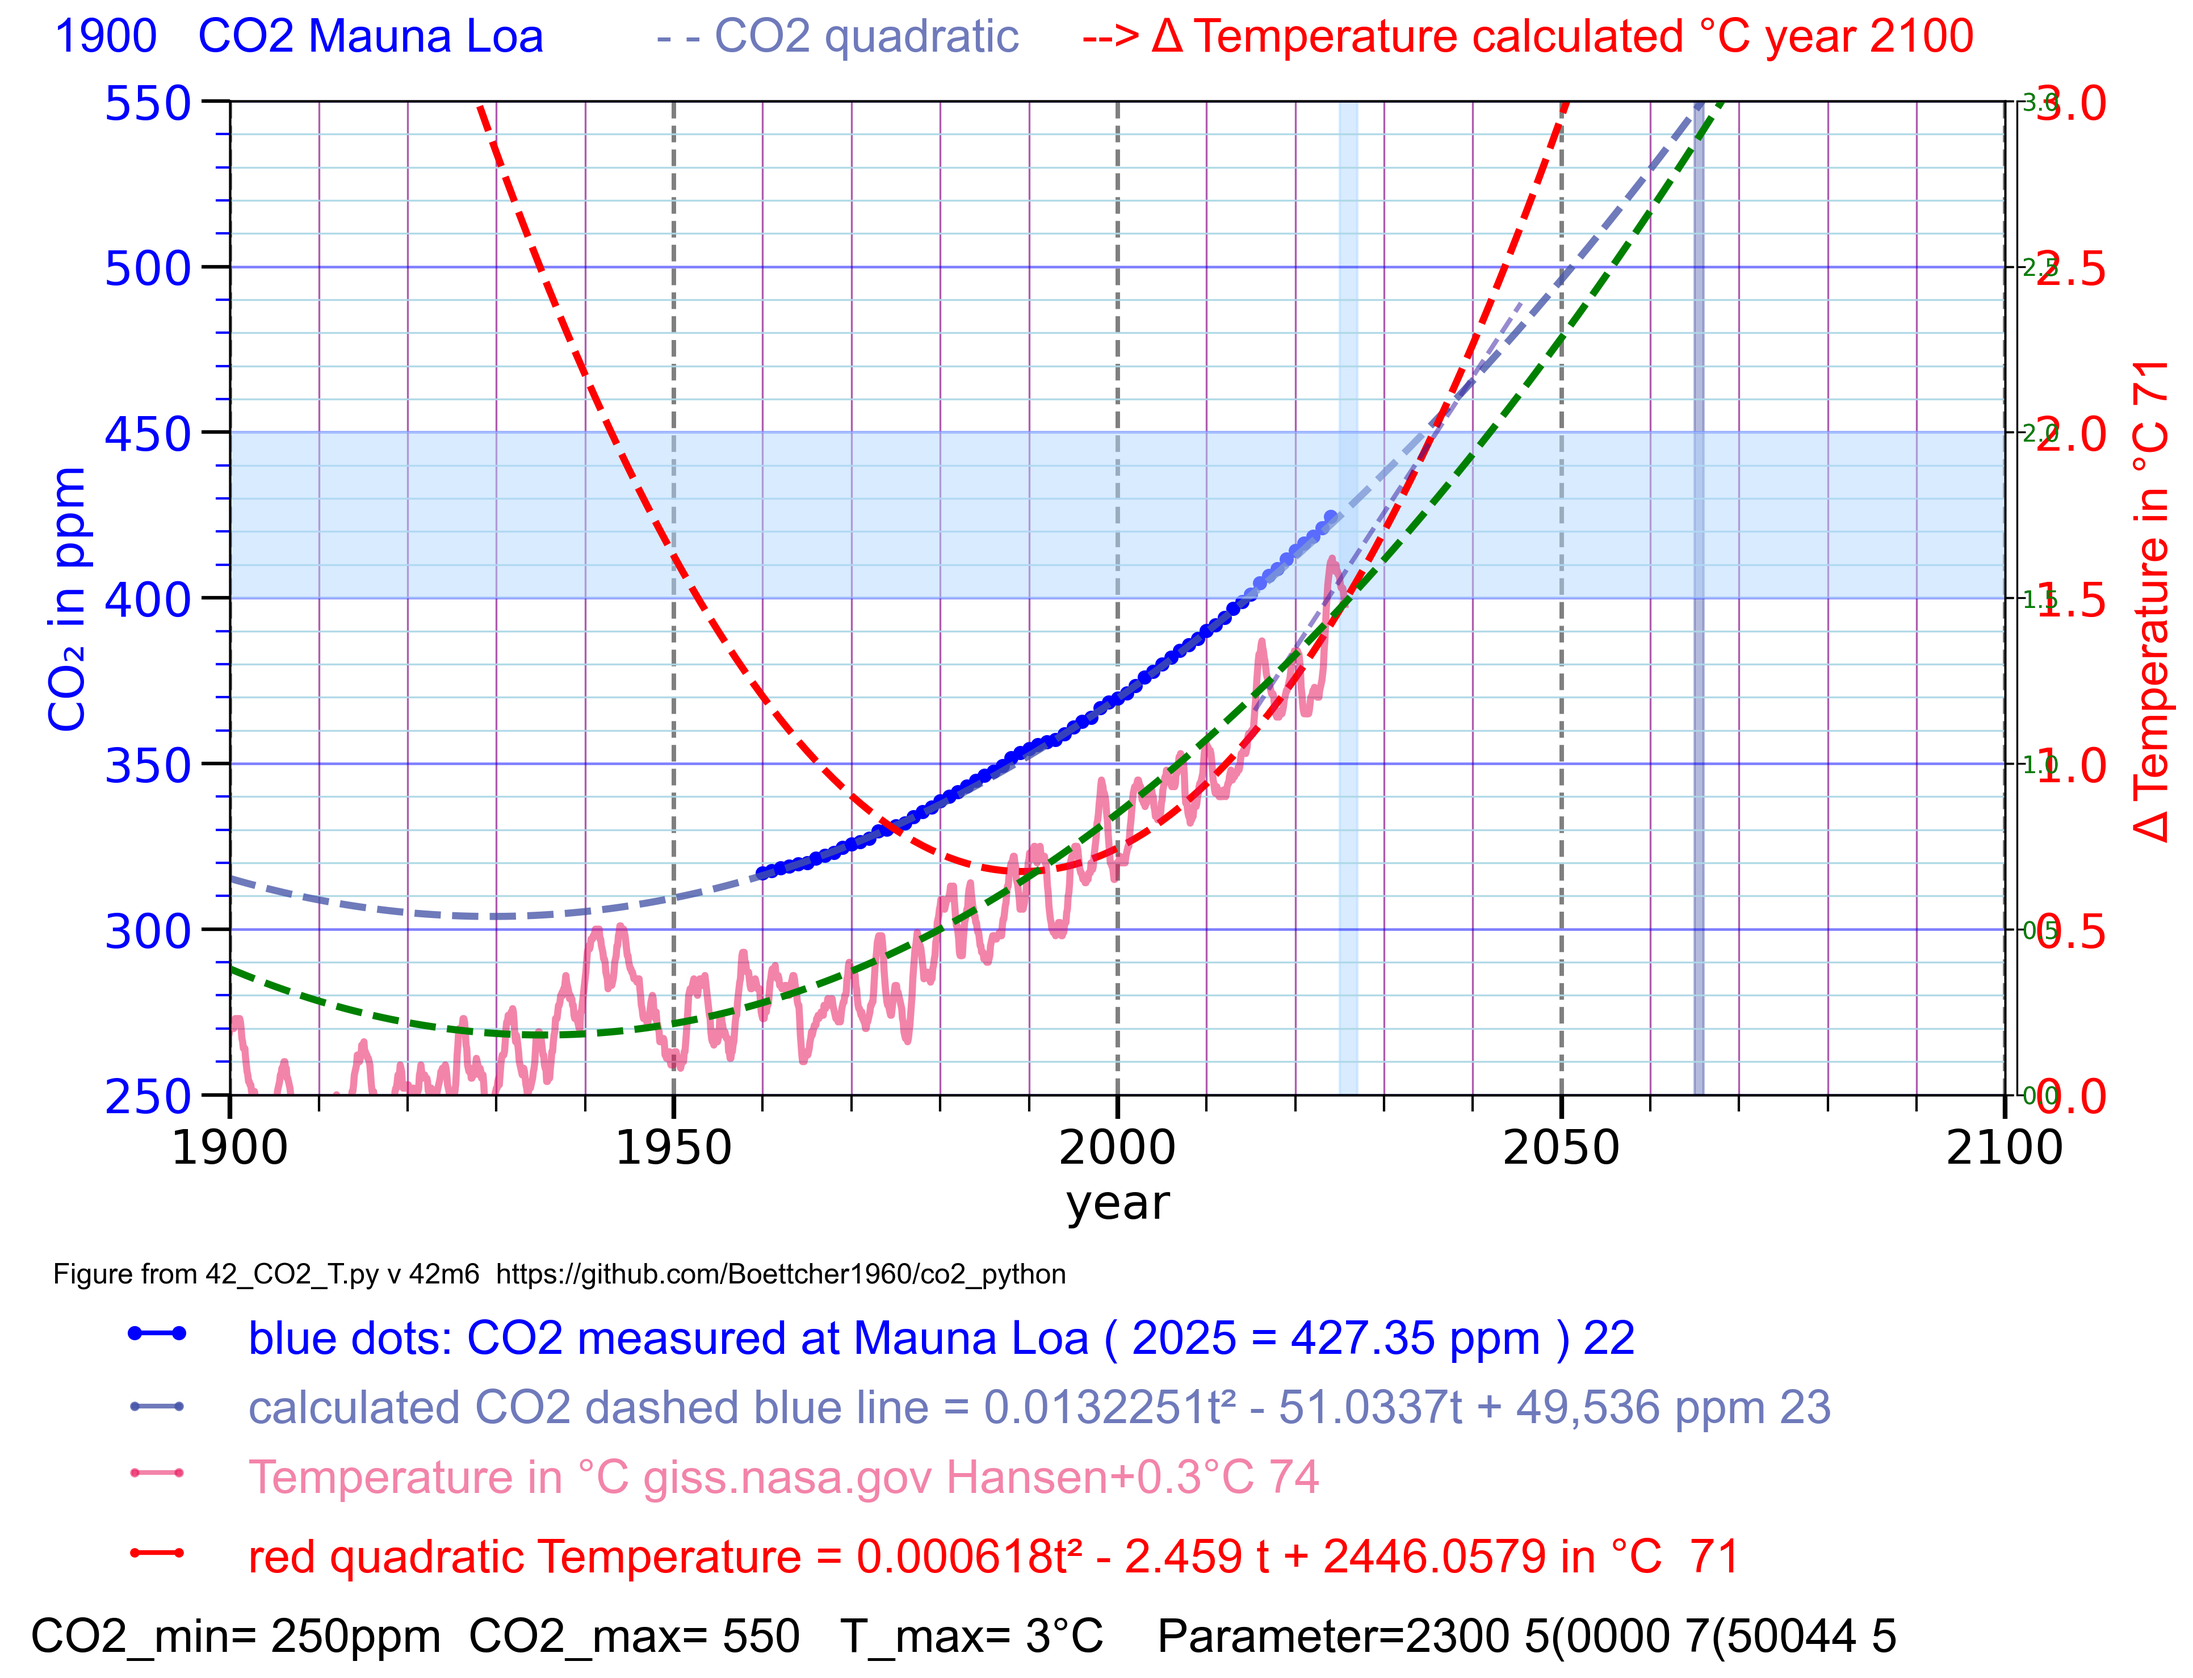
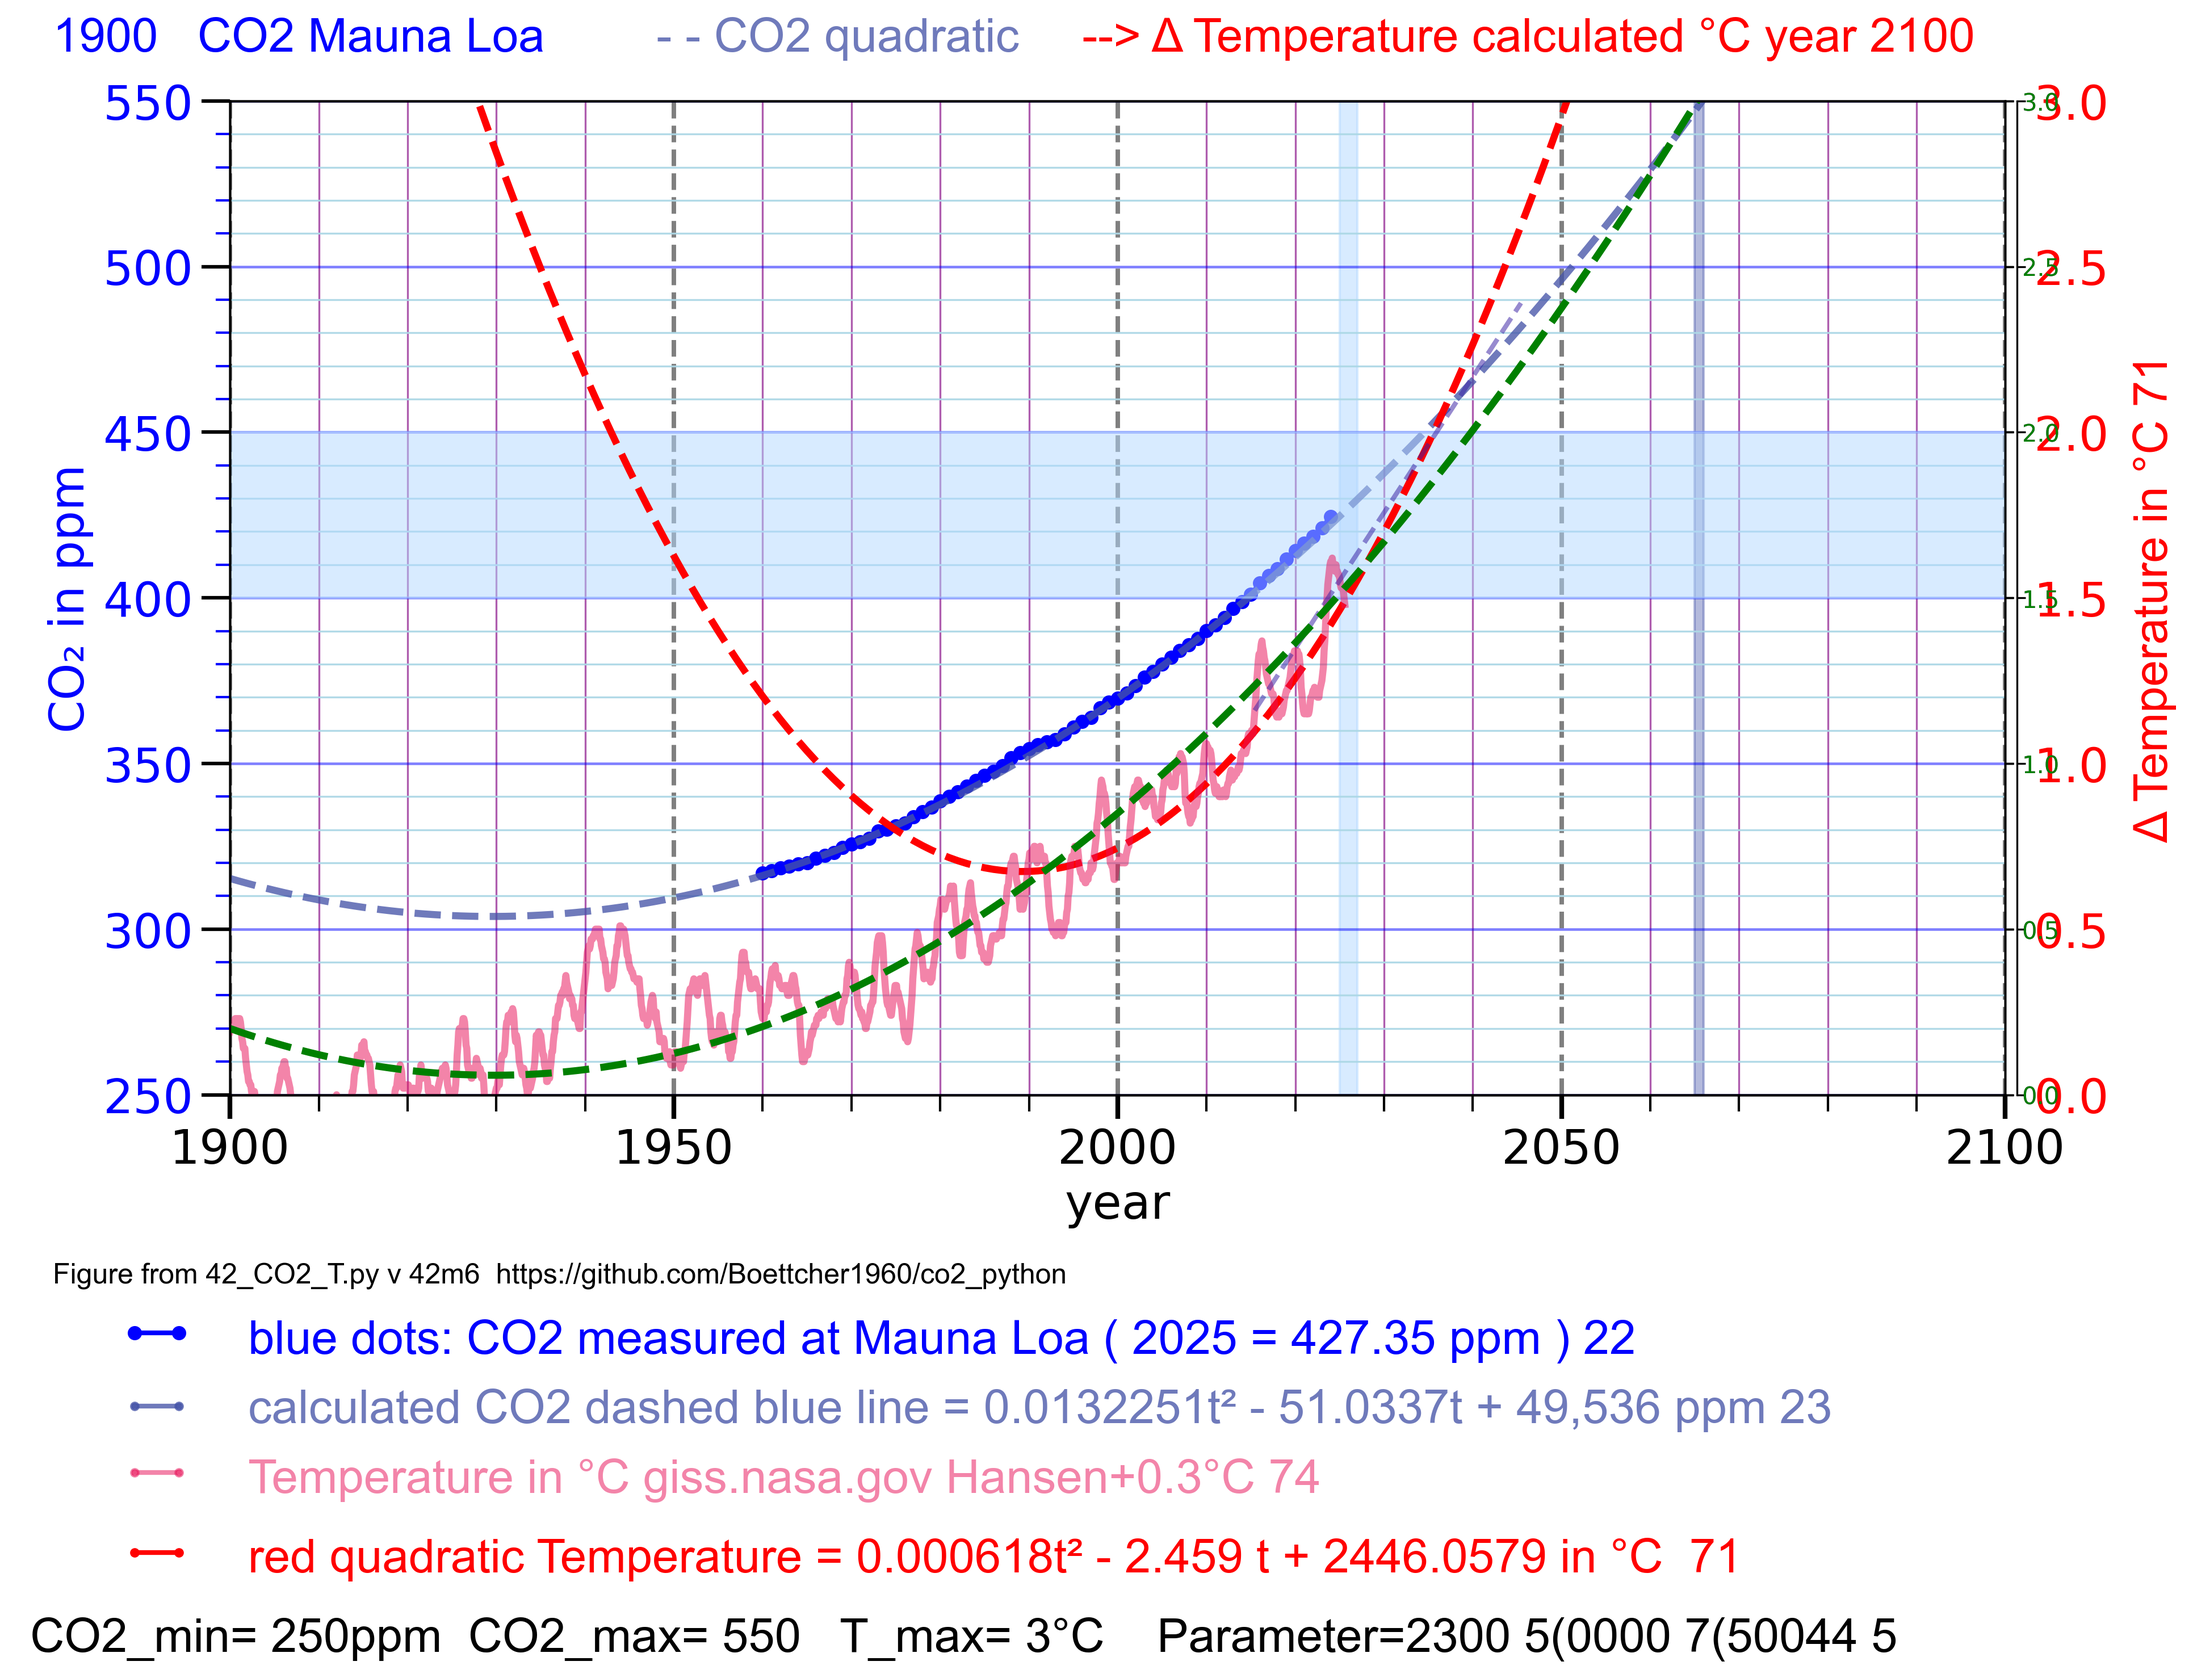
def T_model76(t):     x = t - 2000     return 0.00016 * x**2 + 0.0225 * x + 0.85

diff --git a/42_CO2_T.py b/42_CO2_T.py
@@ -594,9 +594,15 @@ def T_model76m1(t):
 def T_model76m2(t):
     x = t - 2000
     return 0.00016 * x**2 + 0.0207 * x + 0.85
+def T_model76m3(t):
+    x = t - 2000
+    return 0.00016 * x**2 + 0.021 * x + 0.85
+def T_model76m4(t):
+    x = t - 2000
+    return 0.00016 * x**2 + 0.0225 * x + 0.85
 def T_model76(t):
     x = t - 2000
-    return 0.00016 * x**2 + 0.0207 * x + 0.85
+    return 0.00016 * x**2 + 0.0225 * x + 0.85
 # 7.6.2 years scale x axis
 years76 = np.arange(x_anf, x_end + 1 )
 T_76values = T_model76(years76)
@@ -606,7 +612,7 @@ df76 = pd.DataFrame({
        "Year76":      years76,
        "Modeled76": T_76values })
 # 7.6.4 plot76_temperature
-print(df76.head(2))
+# print(df76.head(2))
 print(T_model76(1950) ,"  1950")  # 0.2
 print(T_model76(2013) ,"  2013")  # 1.0
 print(T_model76(2023) ,"  2023")
